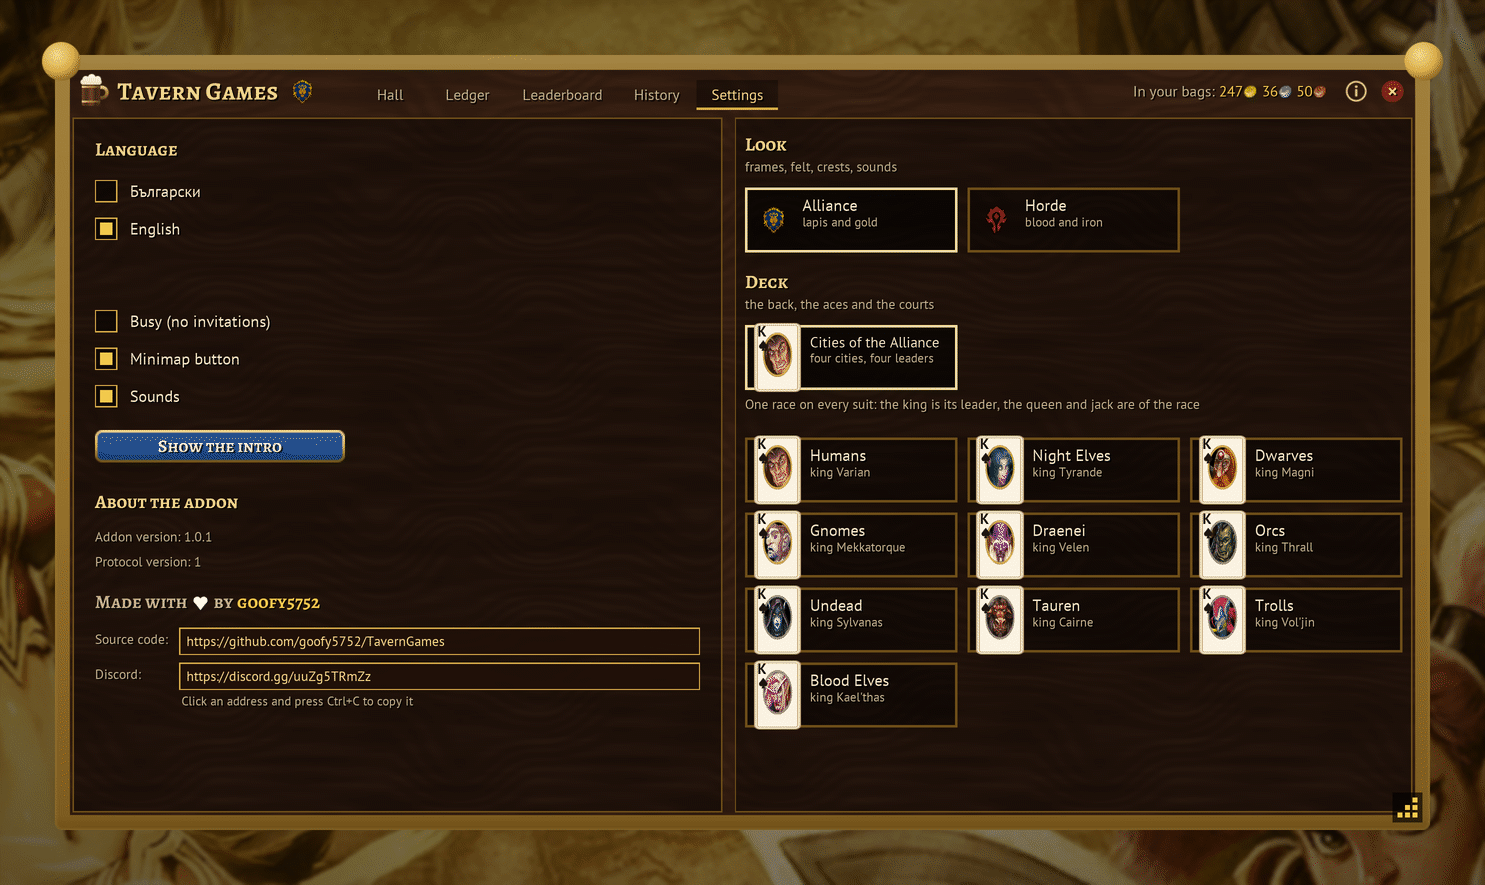
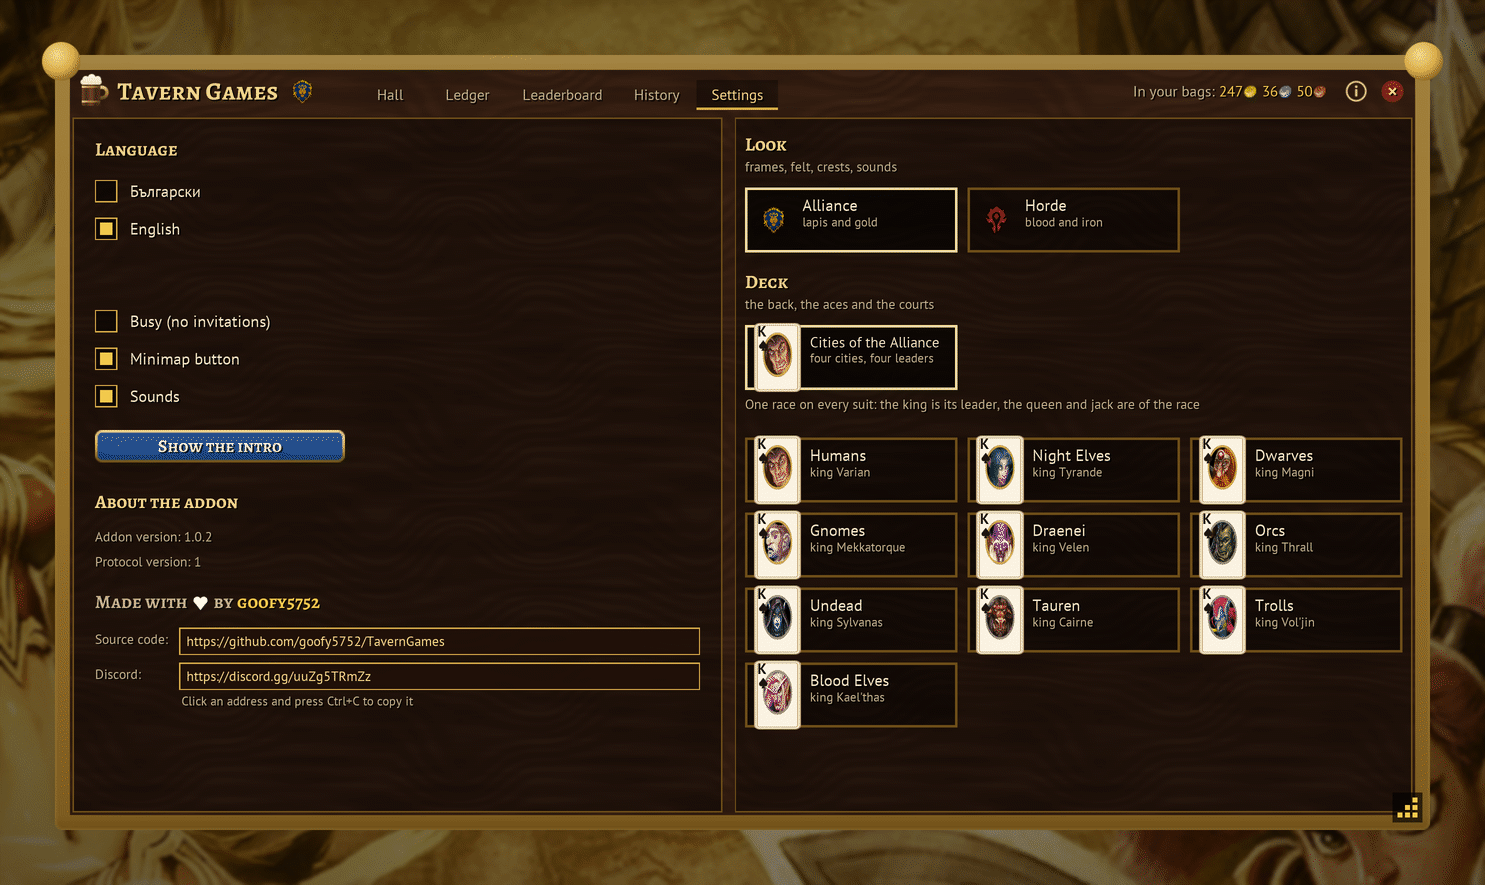
Release 1.0.2 (#20)
Version 1.0.2: the Discord address in Settings, the whole deck on hover, every king with a face of his own (Kael'thas for the blood elves).

diff --git a/README.md b/README.md
@@ -25,7 +25,7 @@
 
 Every table is either **just for fun** or **staked in gold and silver**. The addon never moves gold by itself. It keeps a **guild-wide debt ledger**, fills in the amount for a **trade** or a **mail**, and you press the button. The addon runs on GUILD and WHISPER addon messages only, so it needs no server, website or external service.
 
-> **Version 1.0.1** ([changelog](CHANGELOG.md)), the first public release with a few additions. All seven games, stakes, the ledger, the leaderboard and the history are built, tested in game on WoW Forever and covered by more than 2500 automated tests. Please [open an issue](../../issues) or tell us on [Discord](https://discord.gg/uuZg5TRmZz) if something misbehaves.
+> **Version 1.0.2** ([changelog](CHANGELOG.md)), the first public release with a few additions. All seven games, stakes, the ledger, the leaderboard and the history are built, tested in game on WoW Forever and covered by more than 2500 automated tests. Please [open an issue](../../issues) or tell us on [Discord](https://discord.gg/uuZg5TRmZz) if something misbehaves.
 
 ## Table of contents
 

diff --git a/CHANGELOG.md b/CHANGELOG.md
@@ -1,6 +1,6 @@
 # Changelog
 
-## Unreleased
+## 1.0.2 (2026-11-26)
 
 - **Settings:** the Discord server's address now sits under the source code's, in the same box you can copy from.
 - **Settings, Deck:** point at a deck and its whole face side opens beside it: the jack, queen, king and ace of every suit, and the back.
